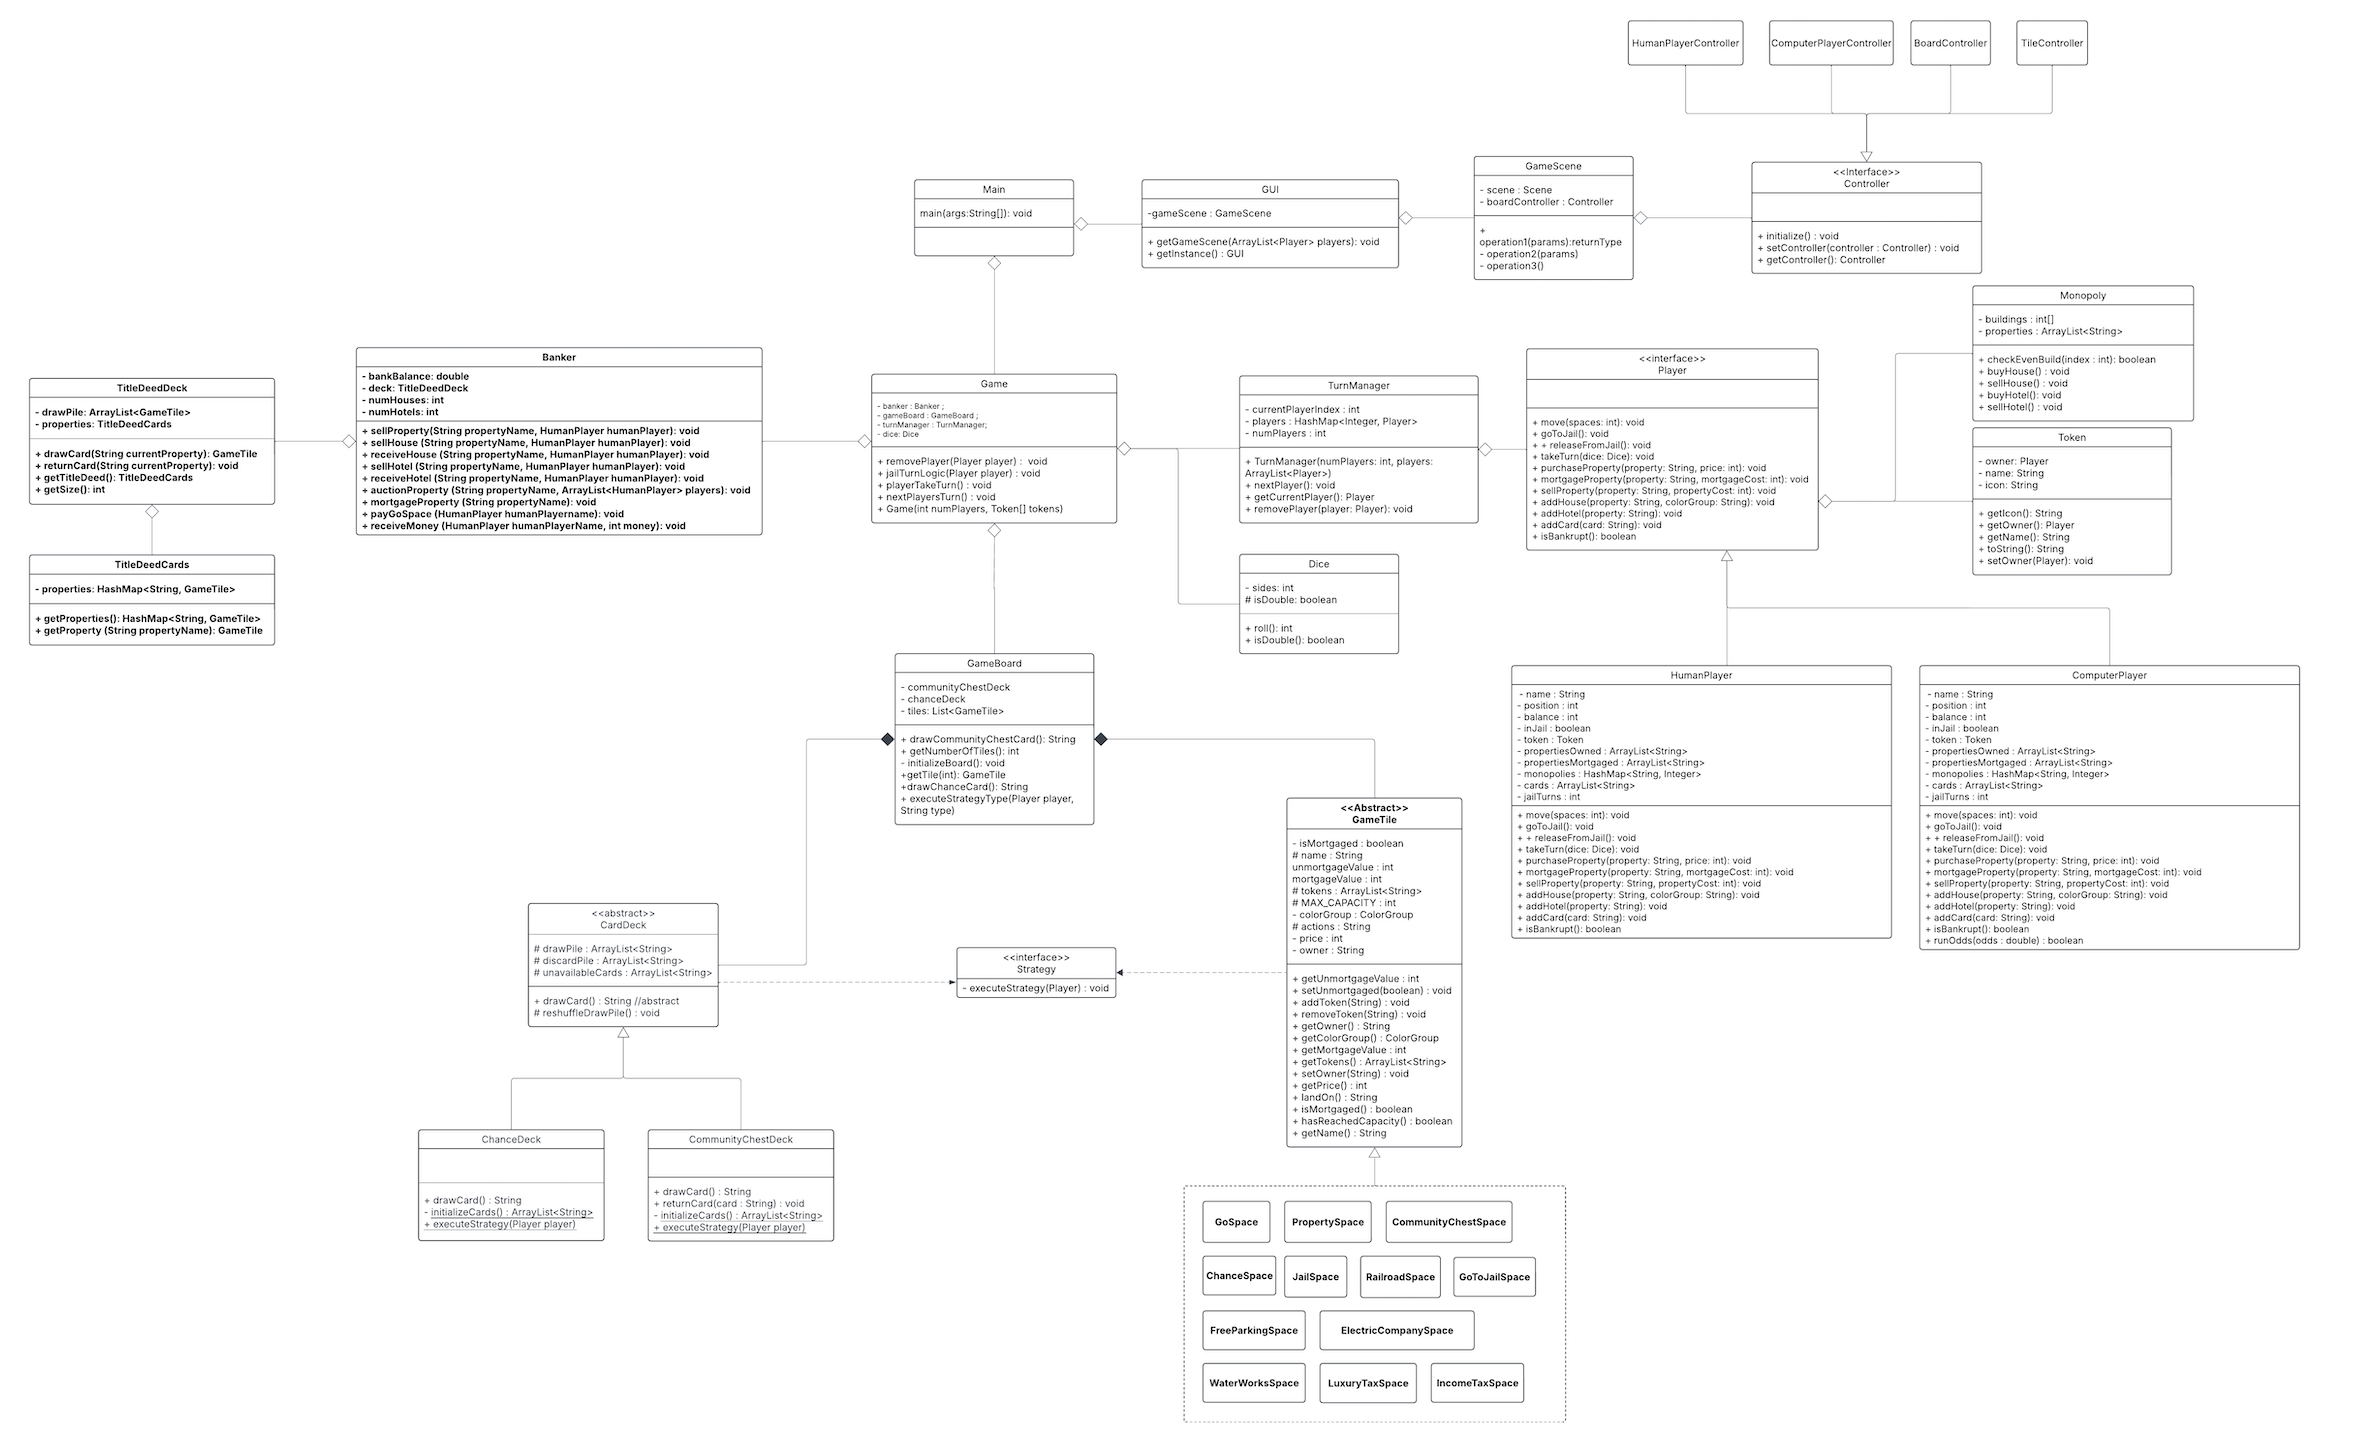
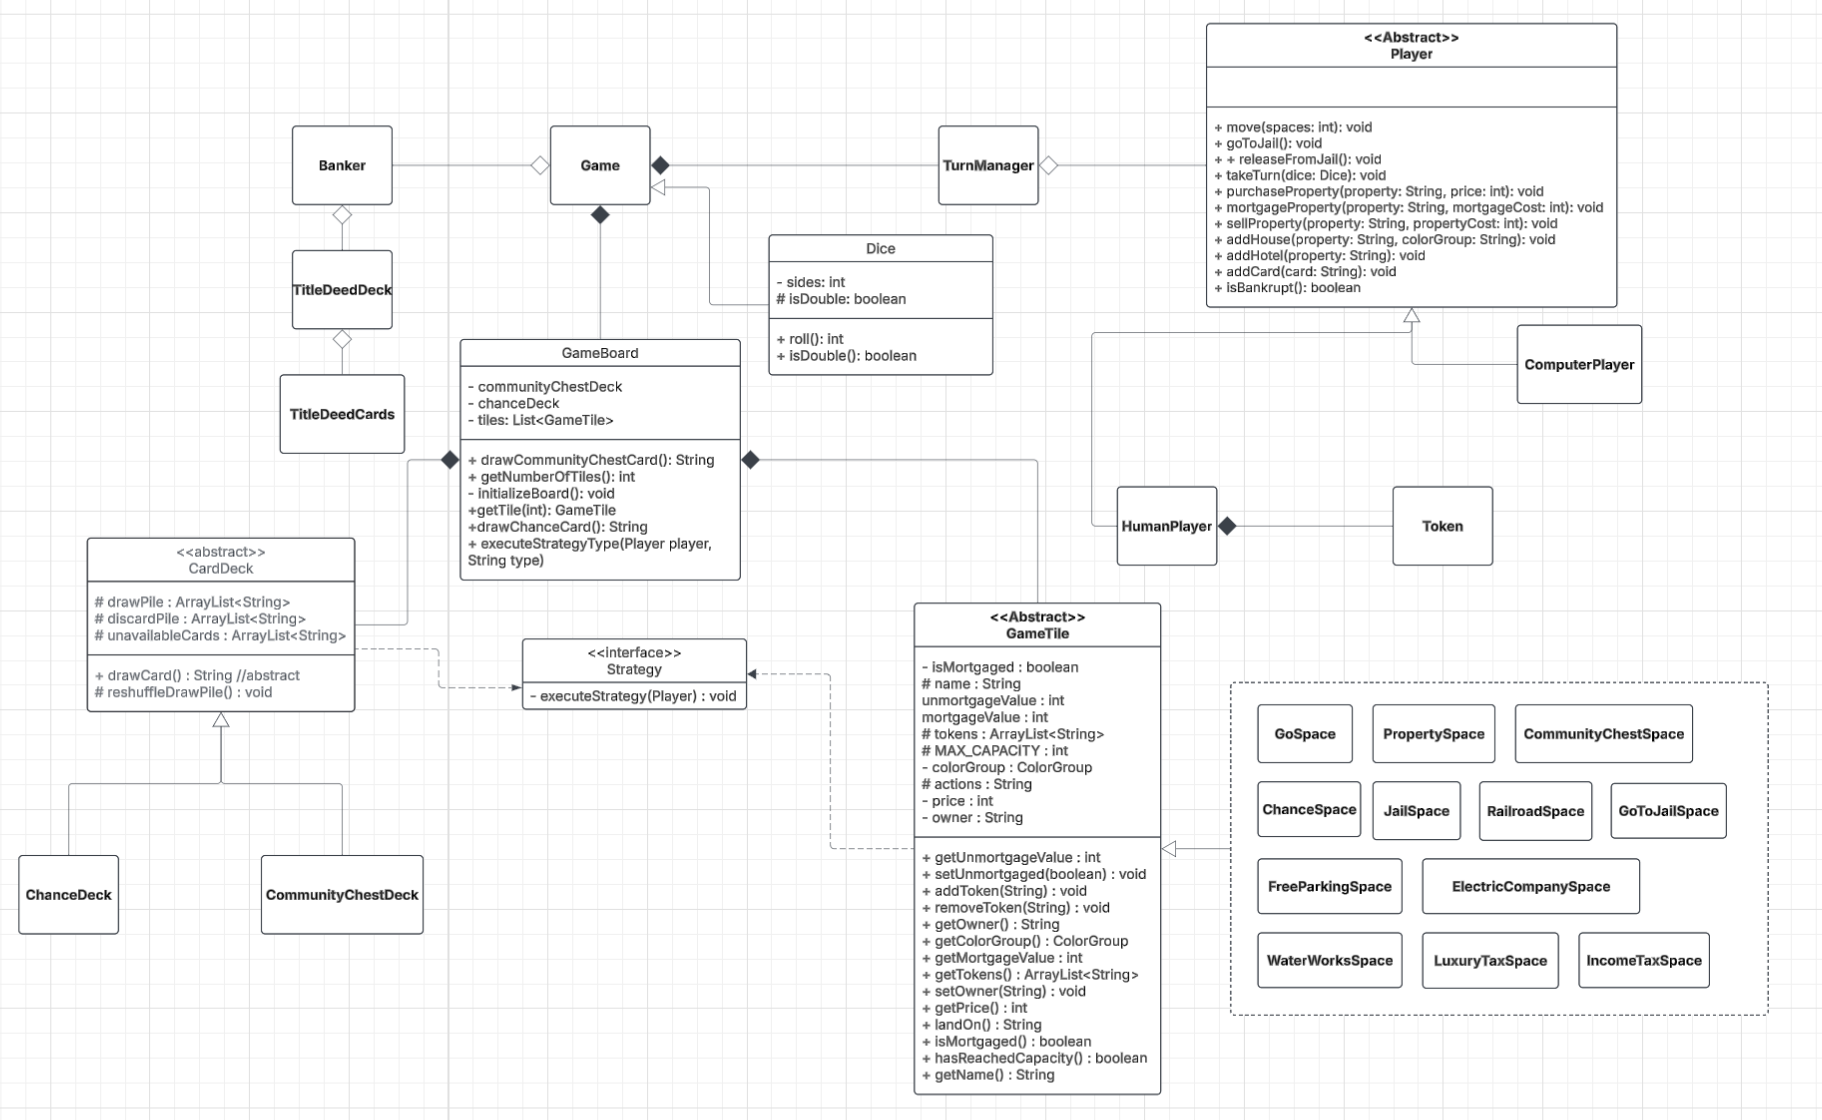
Added updated uml with view uml, and refactored Main

diff --git a/src/main/java/org/monopoly/View/Main.java b/src/main/java/org/monopoly/View/Main.java
@@ -13,7 +13,7 @@ import java.io.IOException;
 public class Main extends Application {
     @Override
     public void start(Stage stage) throws IOException {
-        GUI monopolyGUI = new GUI(stage);
+        new GUI(stage);
     }
 
     /**

diff --git a/README.md b/README.md
@@ -71,5 +71,8 @@ Building houses and hotels
 Note: This is a basic implementation of the game, and there may be some features that are not included. The project is intended to be a starting point for further development and customization.
 As of right now, there is a User Interface implemented, but not completed.
 
-### UML
+### Main UML
 ![alt text](UML.png)
+
+### View UML
+![alt text](ViewUML.png)
